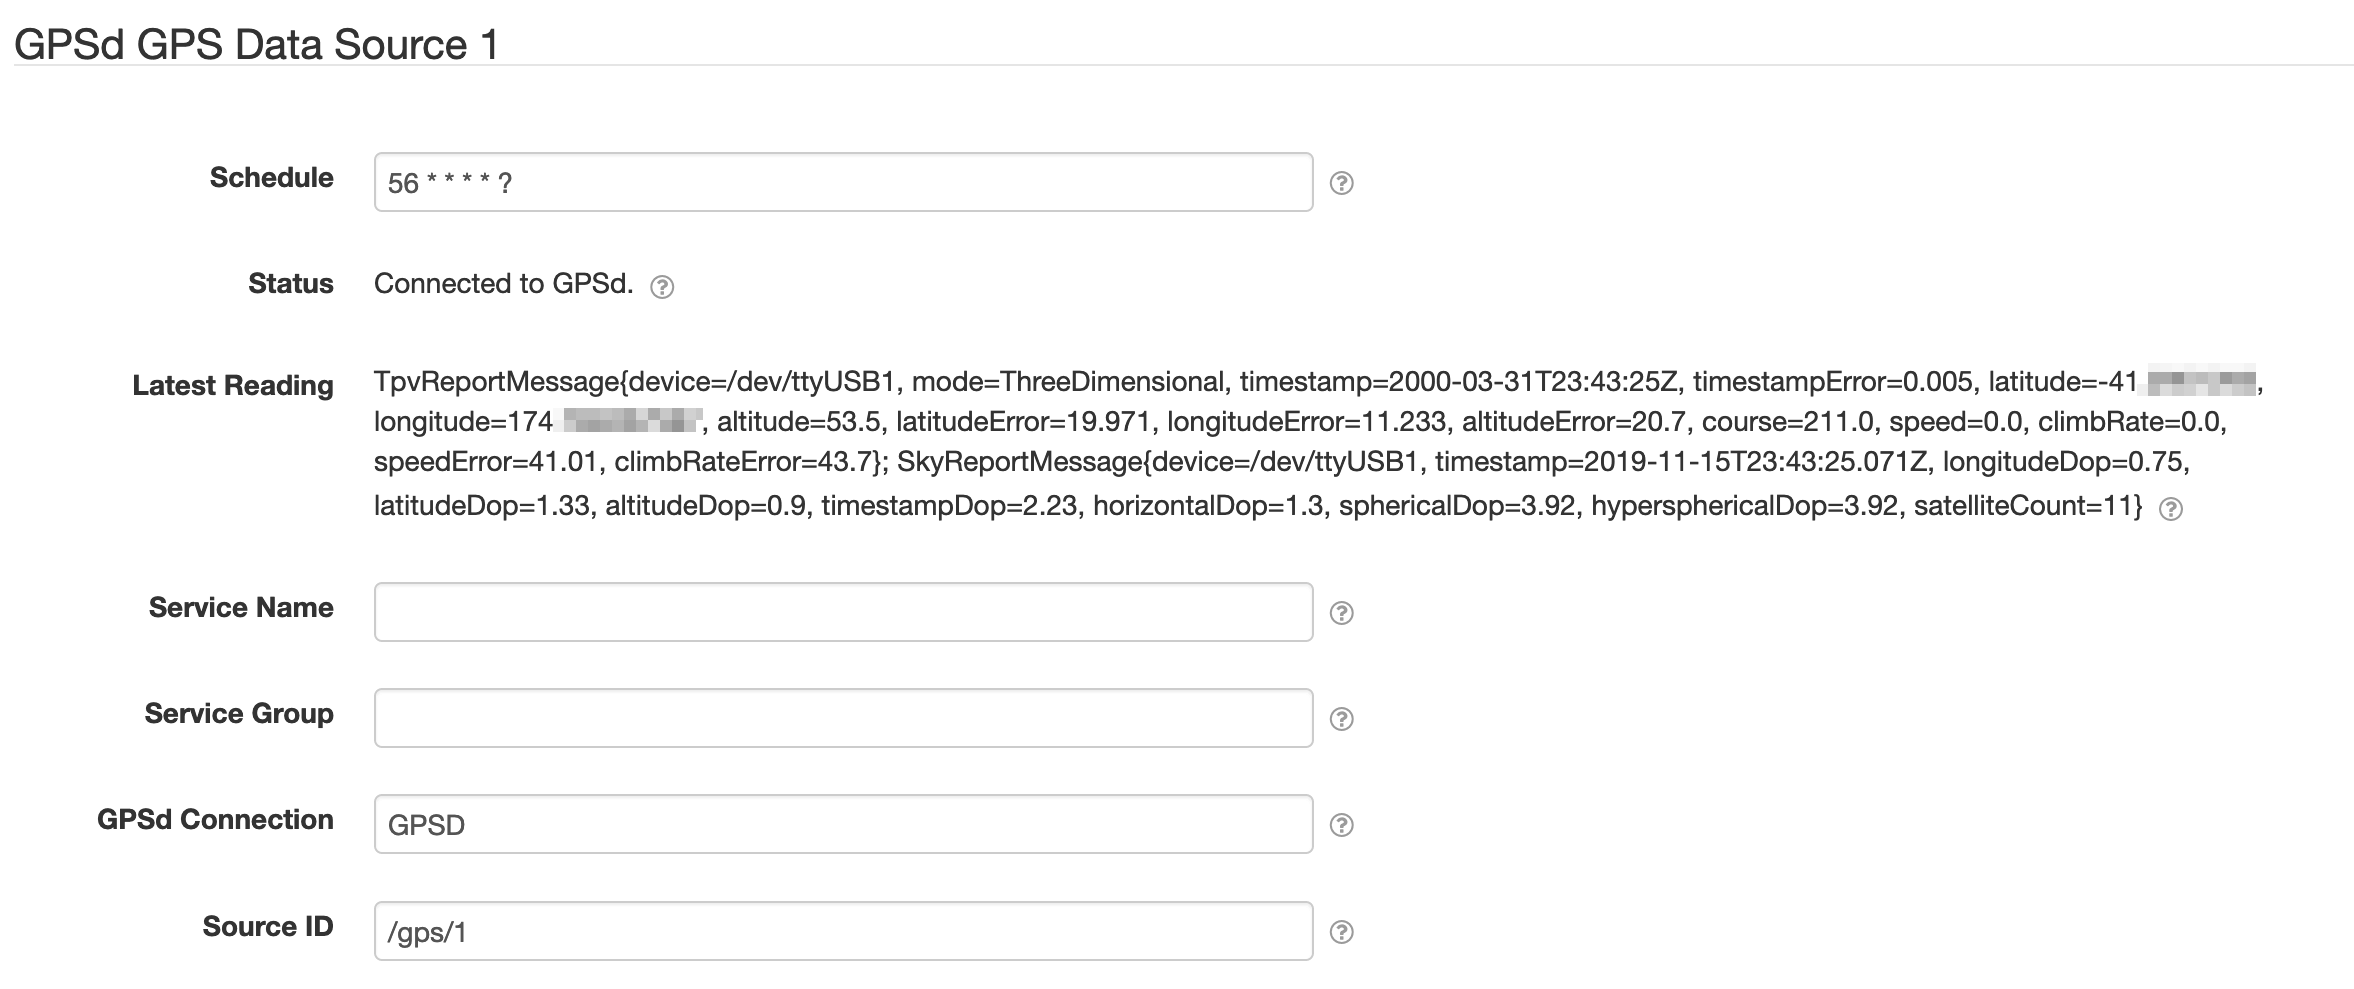
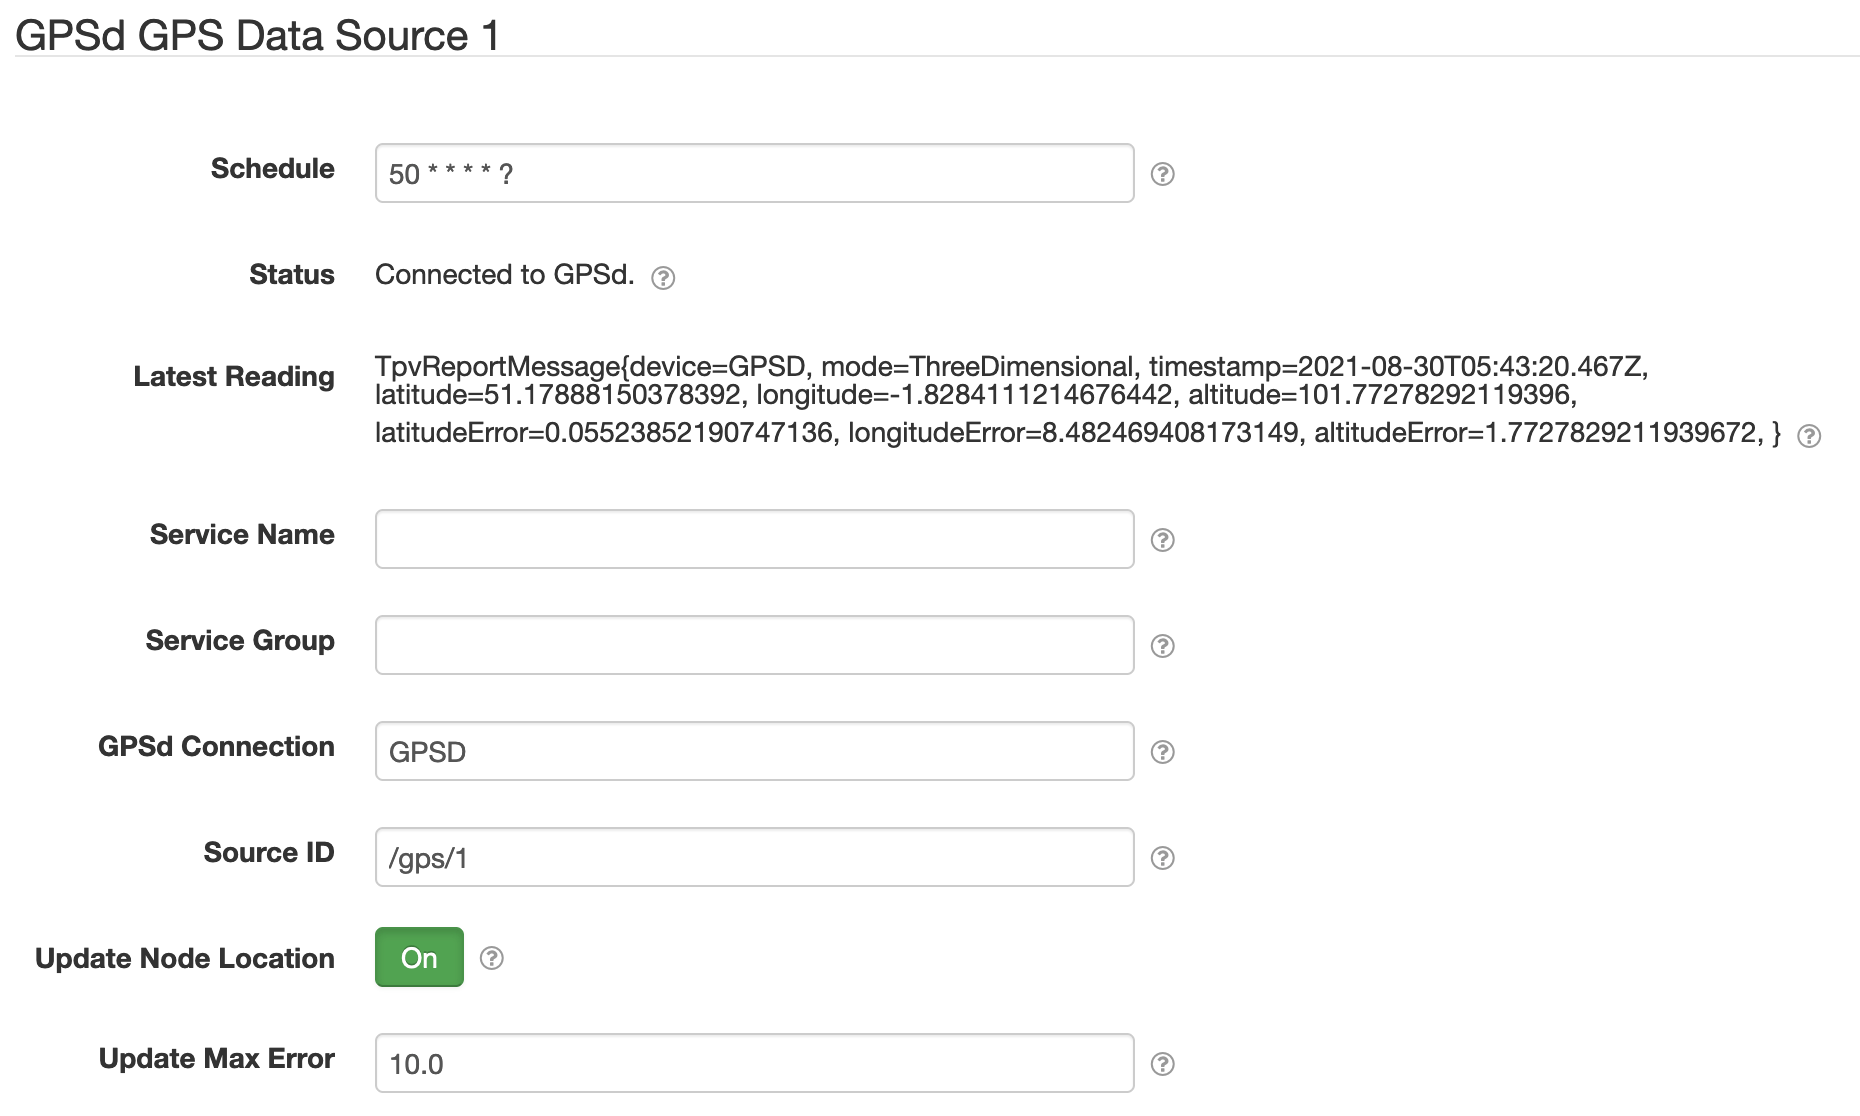
Update docs.

diff --git a/net.solarnetwork.node.datum.gps.gpsd/README.md b/net.solarnetwork.node.datum.gps.gpsd/README.md
@@ -34,6 +34,8 @@ Each device configuration contains the following overall settings:
 | Service Group      | A group name to associate this data source with. |
 | GPSd Connection    | The service name of the [GPSd Connection][gps-conn] component to use. |
 | Source ID          | The SolarNetwork source ID to assign to captured datum. |
+| Update Node Location | Toggle updating the node's own GPS coordinates in SolarNetwork. |
+| Update Max Error     | The maximum latitude/longitude error amount allowed for updating the node's own GPS coordinates. |
 
 ## Overall device settings notes
 
@@ -41,20 +43,18 @@ Each device configuration contains the following overall settings:
 	<dt>Source ID</dt>
 	<dd>This value unique identifies the data collected from this device, by this node,
 	 on SolarNetwork. Each configured device should use a different value.</dd>
+	 <dt>Update Node Location</dt>
+	 <dd>Enabling this feature means SolarNode will update the latitude, longitude, and elevation
+	 properties for the node's own location stored in SolarNetwork. The <b>Update Max Error</b>
+	 setting can be used to prevent low-quality GPS signals from getting used. Note that the 
+	 SolarNode <b>Location Service</b> might filter out slight changes of position so consult
+	 its available settings for details.</dd>
 </dl>
 
 # Events
 
-This plugin will listen for all GPSd "report" messages (`SKY` and `TPV` messages) and emit a
-[`net/solarnetwork/node/DatumDataSource/DATUM_CAPTURED`][evt-datum-captured] event for each one
-received. This means that other plugins can monitor the GPS data in real-time and do something
-interesting with it. The [SolarFlux Upload][solarflux-upload] plugin, for example, will upload the
-data to SolarFlux, providing client applications the ability to do real-time GPS tracking.
-
-> :round_pushpin: **NOTE:** although this plugin will emit `DATUM_CAPTURED` events for each report
-> it receives from GPSd, this is separate from the **Schedule** setting that determines how
-> frequently GPS datum are posted to SolarNetwork.
+This plugin will listen for all GPSd "report" messages (`SKY` and `TPV` messages) and offer 
+transient datum events for each of them to the node's [datum queue][datum-queue].
 
 [gps-conn]: ../net.solarnetwork.node.io.gpsd/
-[evt-datum-captured]: https://github.com/SolarNetwork/solarnetwork/wiki/SolarNode-Events#datum-captured
-[solarflux-upload]: ../net.solarnetwork.node.upload.flux/
+[datum-queue]: https://github.com/SolarNetwork/solarnetwork/wiki/SolarNode-Datum-Queue
